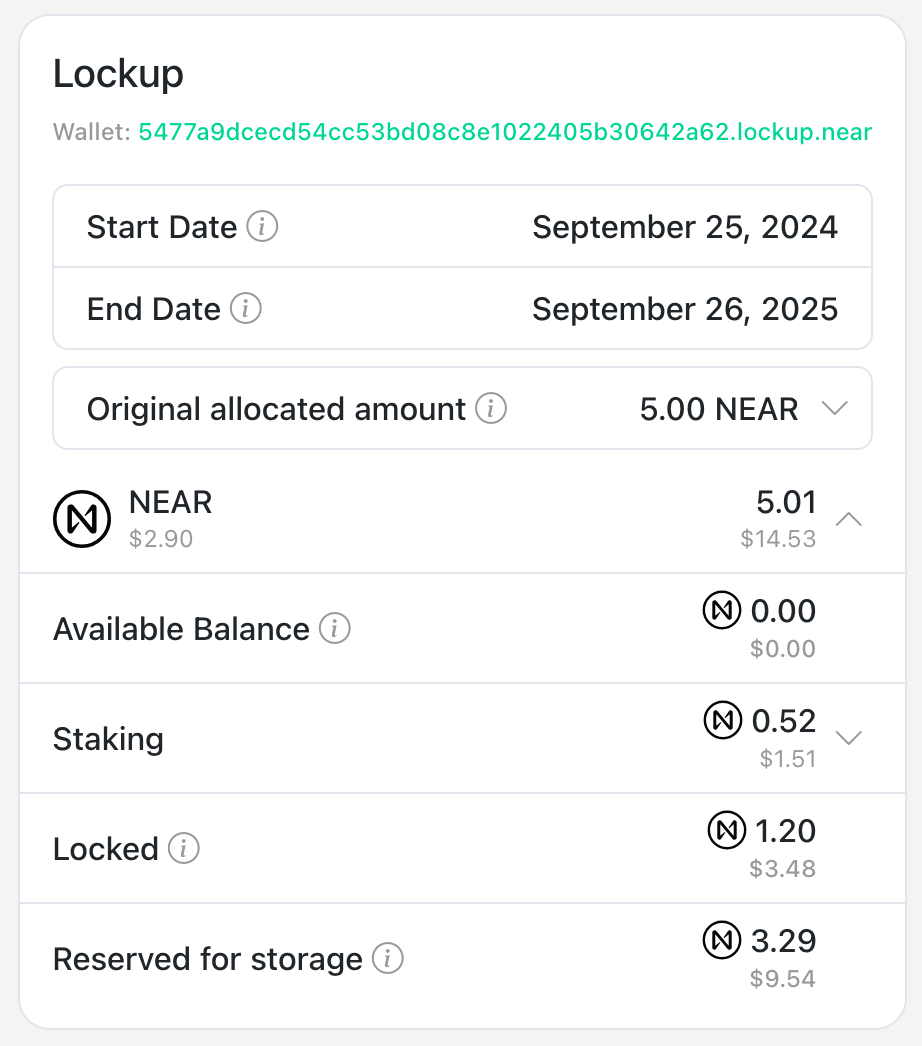
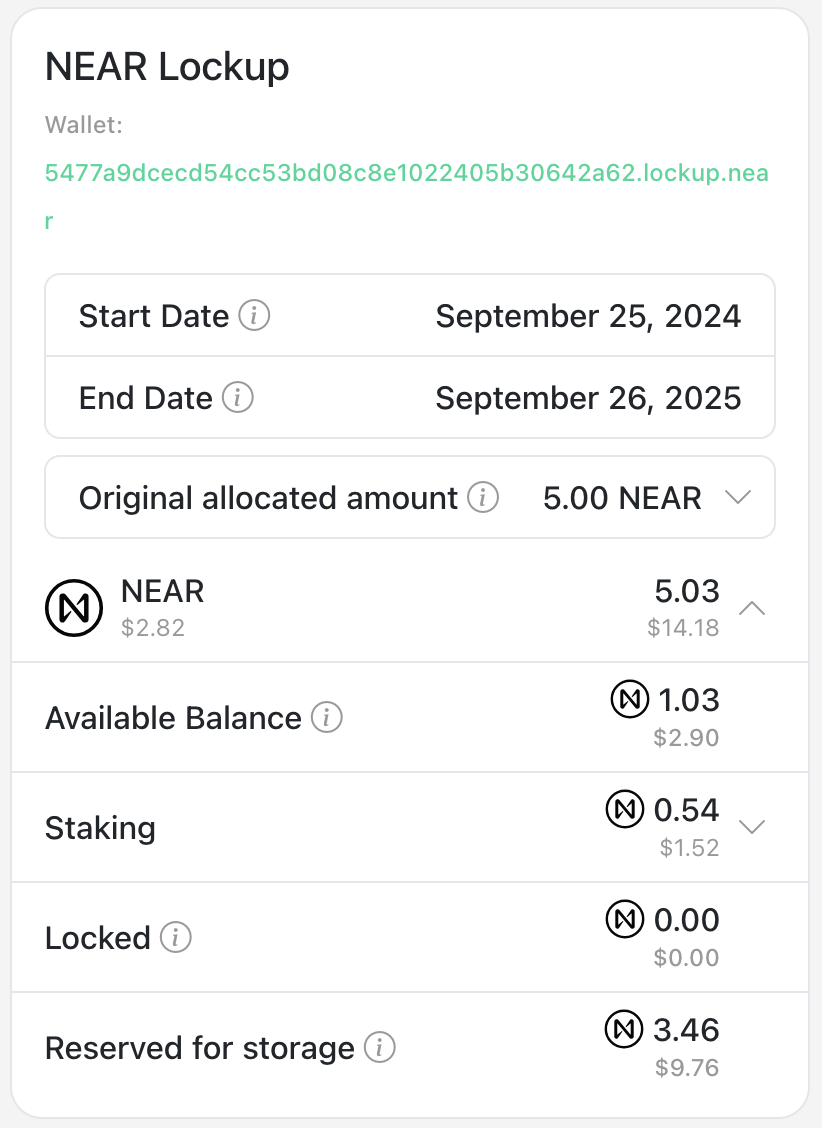
update

diff --git a/docs/dashboard.md b/docs/dashboard.md
@@ -36,7 +36,7 @@ The NEAR Treasury dashboard provides a centralized overview of your treasury's f
 If your treasury has a lockup account, this section displays the balance of tokens held within the lockup contracts. You'll be able to see details about the lockup period and any staking activity associated with those funds.
 
 :::info
-The Treasury **Lockup** account shown in the Dashboard is not related to the [Lockup section](management/lockup.md), where you can create new Lockups using your treasury funds for your own recipients, based on your custom dates and rules.
+The Treasury **NEAR Lockup** account shown in the Dashboard is not related to the [Lockup section](management/lockup.md), where you can create new Lockups using your treasury funds for your own recipients, based on your custom dates and rules.
 :::
 
 <div class="screenshot">
@@ -57,3 +57,19 @@ The Treasury **Lockup** account shown in the Dashboard is not related to the [Lo
   - **Available for withdrawal:** Tokens that have been unstaked and finished the 48-hour waiting period.
 - **Locked:** Tokens that are currently restricted by the vesting schedule and cannot be used for payments until they become vested. These tokens can only be staked.
 - **Reserved for storage:** A small amount of tokens required to maintain the account active and cover the storage costs.
+
+## FT Lockup (Optional)
+
+<div class="screenshot">
+<img src="/img/dashboard/ftlockup.png" width="50%" alt="treasury lockup" />
+</div>
+
+- **Original Allocated Amount:** The total number of tokens assigned to you in this vesting schedule.
+  - **Unreleased:** Tokens that are still locked and not yet available to claim under your vesting schedule.
+  - **Unclaimed:** Tokens from earlier payout periods (_rounds_) that you haven’t claimed yet. These can be claimed together with the next unlock.
+  - **Claimed:** Tokens you’ve already claimed and transferred to your DAO treasury.
+- **Start Date:** The date this vesting schedule began.
+- **Rounds:** The number of payout rounds completed out of the total scheduled.
+- **Release Interval:** The time period between each payout.
+- **Next Claim Date:** The next date when tokens will be available to claim.
+
